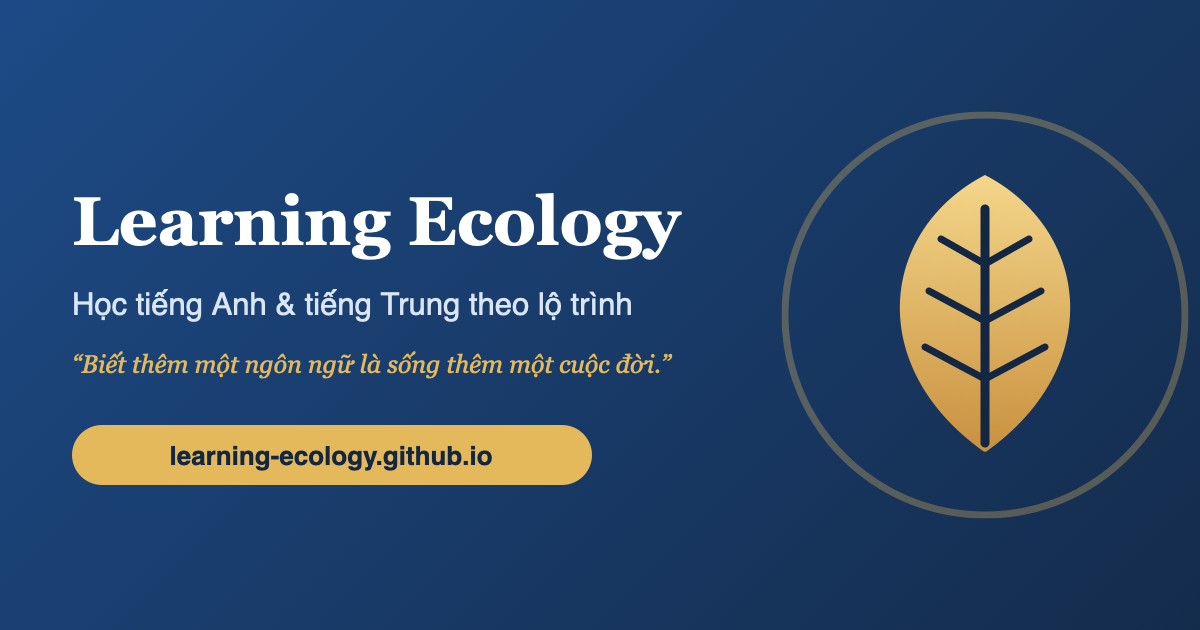
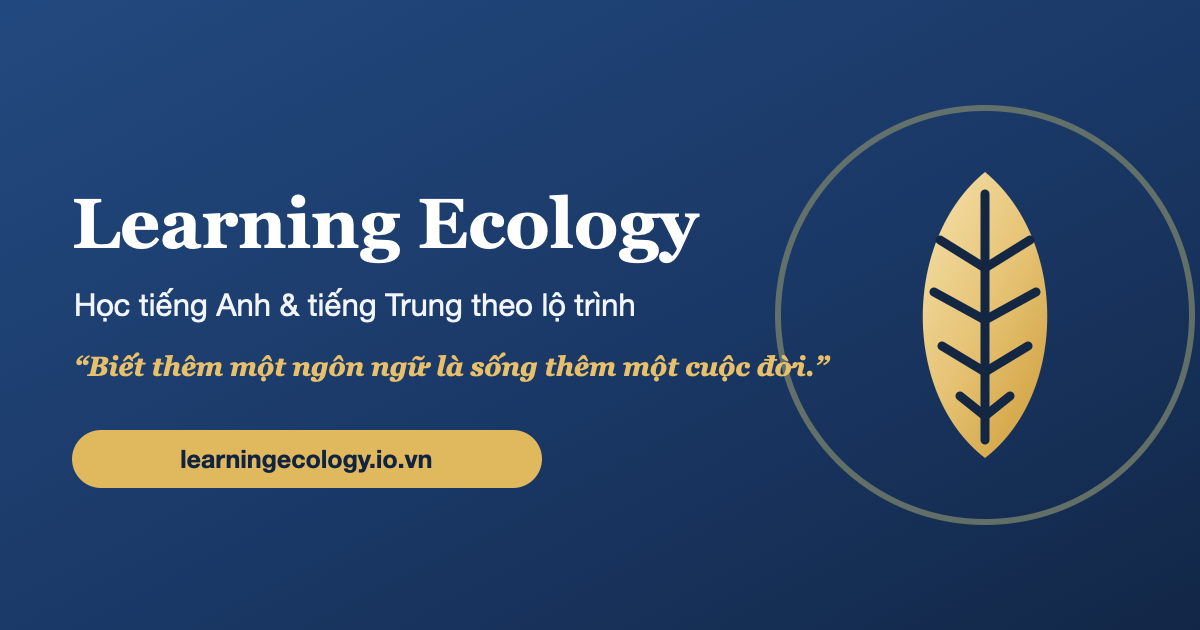
Add files via upload

diff --git a/index.html b/index.html
@@ -10,8 +10,9 @@
   <meta property="og:type" content="website" />
   <meta property="og:title" content="Learning Ecology — Học tiếng Anh & tiếng Trung theo lộ trình" />
   <meta property="og:description" content="Học có lộ trình, tiến bộ đo được mỗi ngày — cùng Thầy Lê Quốc Thông (Master of TESOL, IELTS 7.5, HSK 5). Đăng ký học thử miễn phí." />
-  <meta property="og:url" content="https://learning-ecology.github.io/" />
-  <meta property="og:image" content="https://learning-ecology.github.io/social-card.png" />
+  <meta property="og:url" content="https://learningecology.io.vn/" />
+  <!-- ?v=2 forces Zalo / Facebook to re-fetch the card instead of showing a cached copy -->
+  <meta property="og:image" content="https://learningecology.io.vn/social-card.png?v=2" />
   <meta property="og:image:width" content="1200" />
   <meta property="og:image:height" content="630" />
   <meta name="twitter:card" content="summary_large_image" />

diff --git a/cert.html b/cert.html
@@ -10,7 +10,7 @@
   <meta property="og:type" content="website" />
   <meta property="og:title" content="🎓 Chứng nhận hoàn thành khóa học — Learning Ecology" />
   <meta property="og:description" content="Tôi vừa hoàn thành một khóa học tại Learning Ecology! Học tiếng Anh & tiếng Trung theo lộ trình — đăng ký học thử miễn phí." />
-  <meta property="og:image" content="https://learning-ecology.github.io/social-card.png" />
+  <meta property="og:image" content="https://learningecology.io.vn/social-card.png?v=2" />
   <meta name="twitter:card" content="summary_large_image" />
 
   <link rel="stylesheet" href="styles.css" />